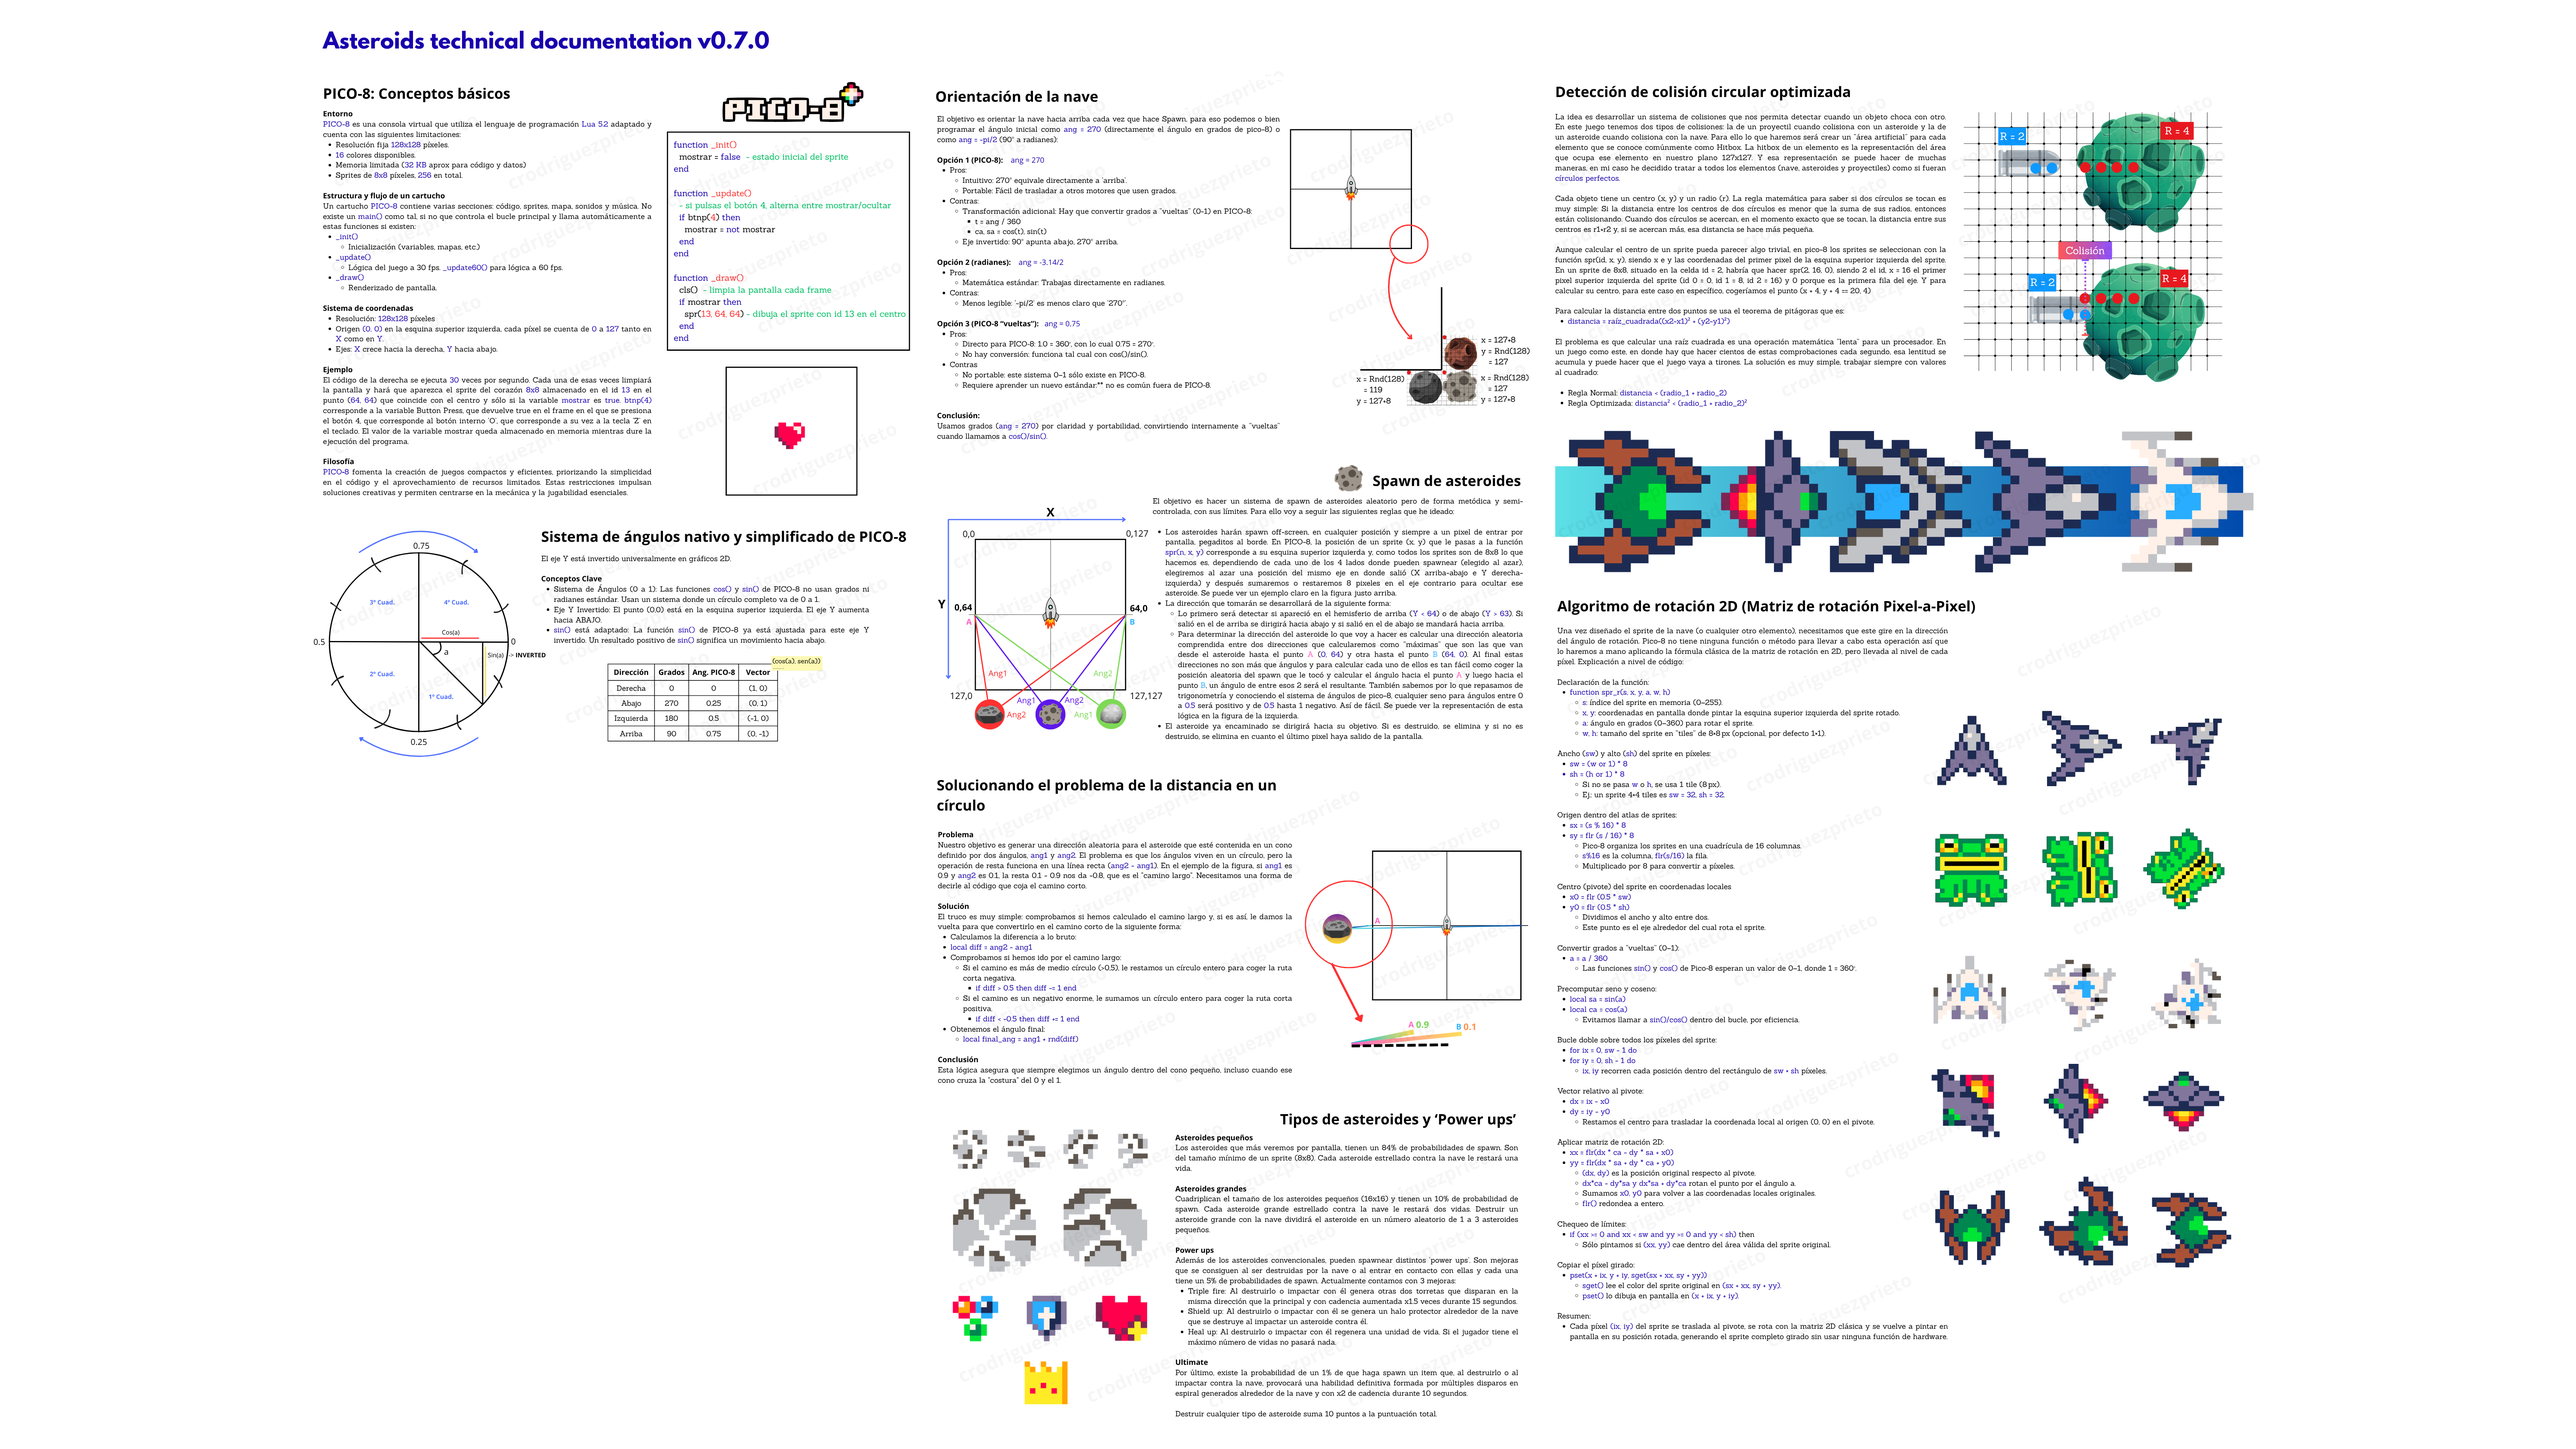
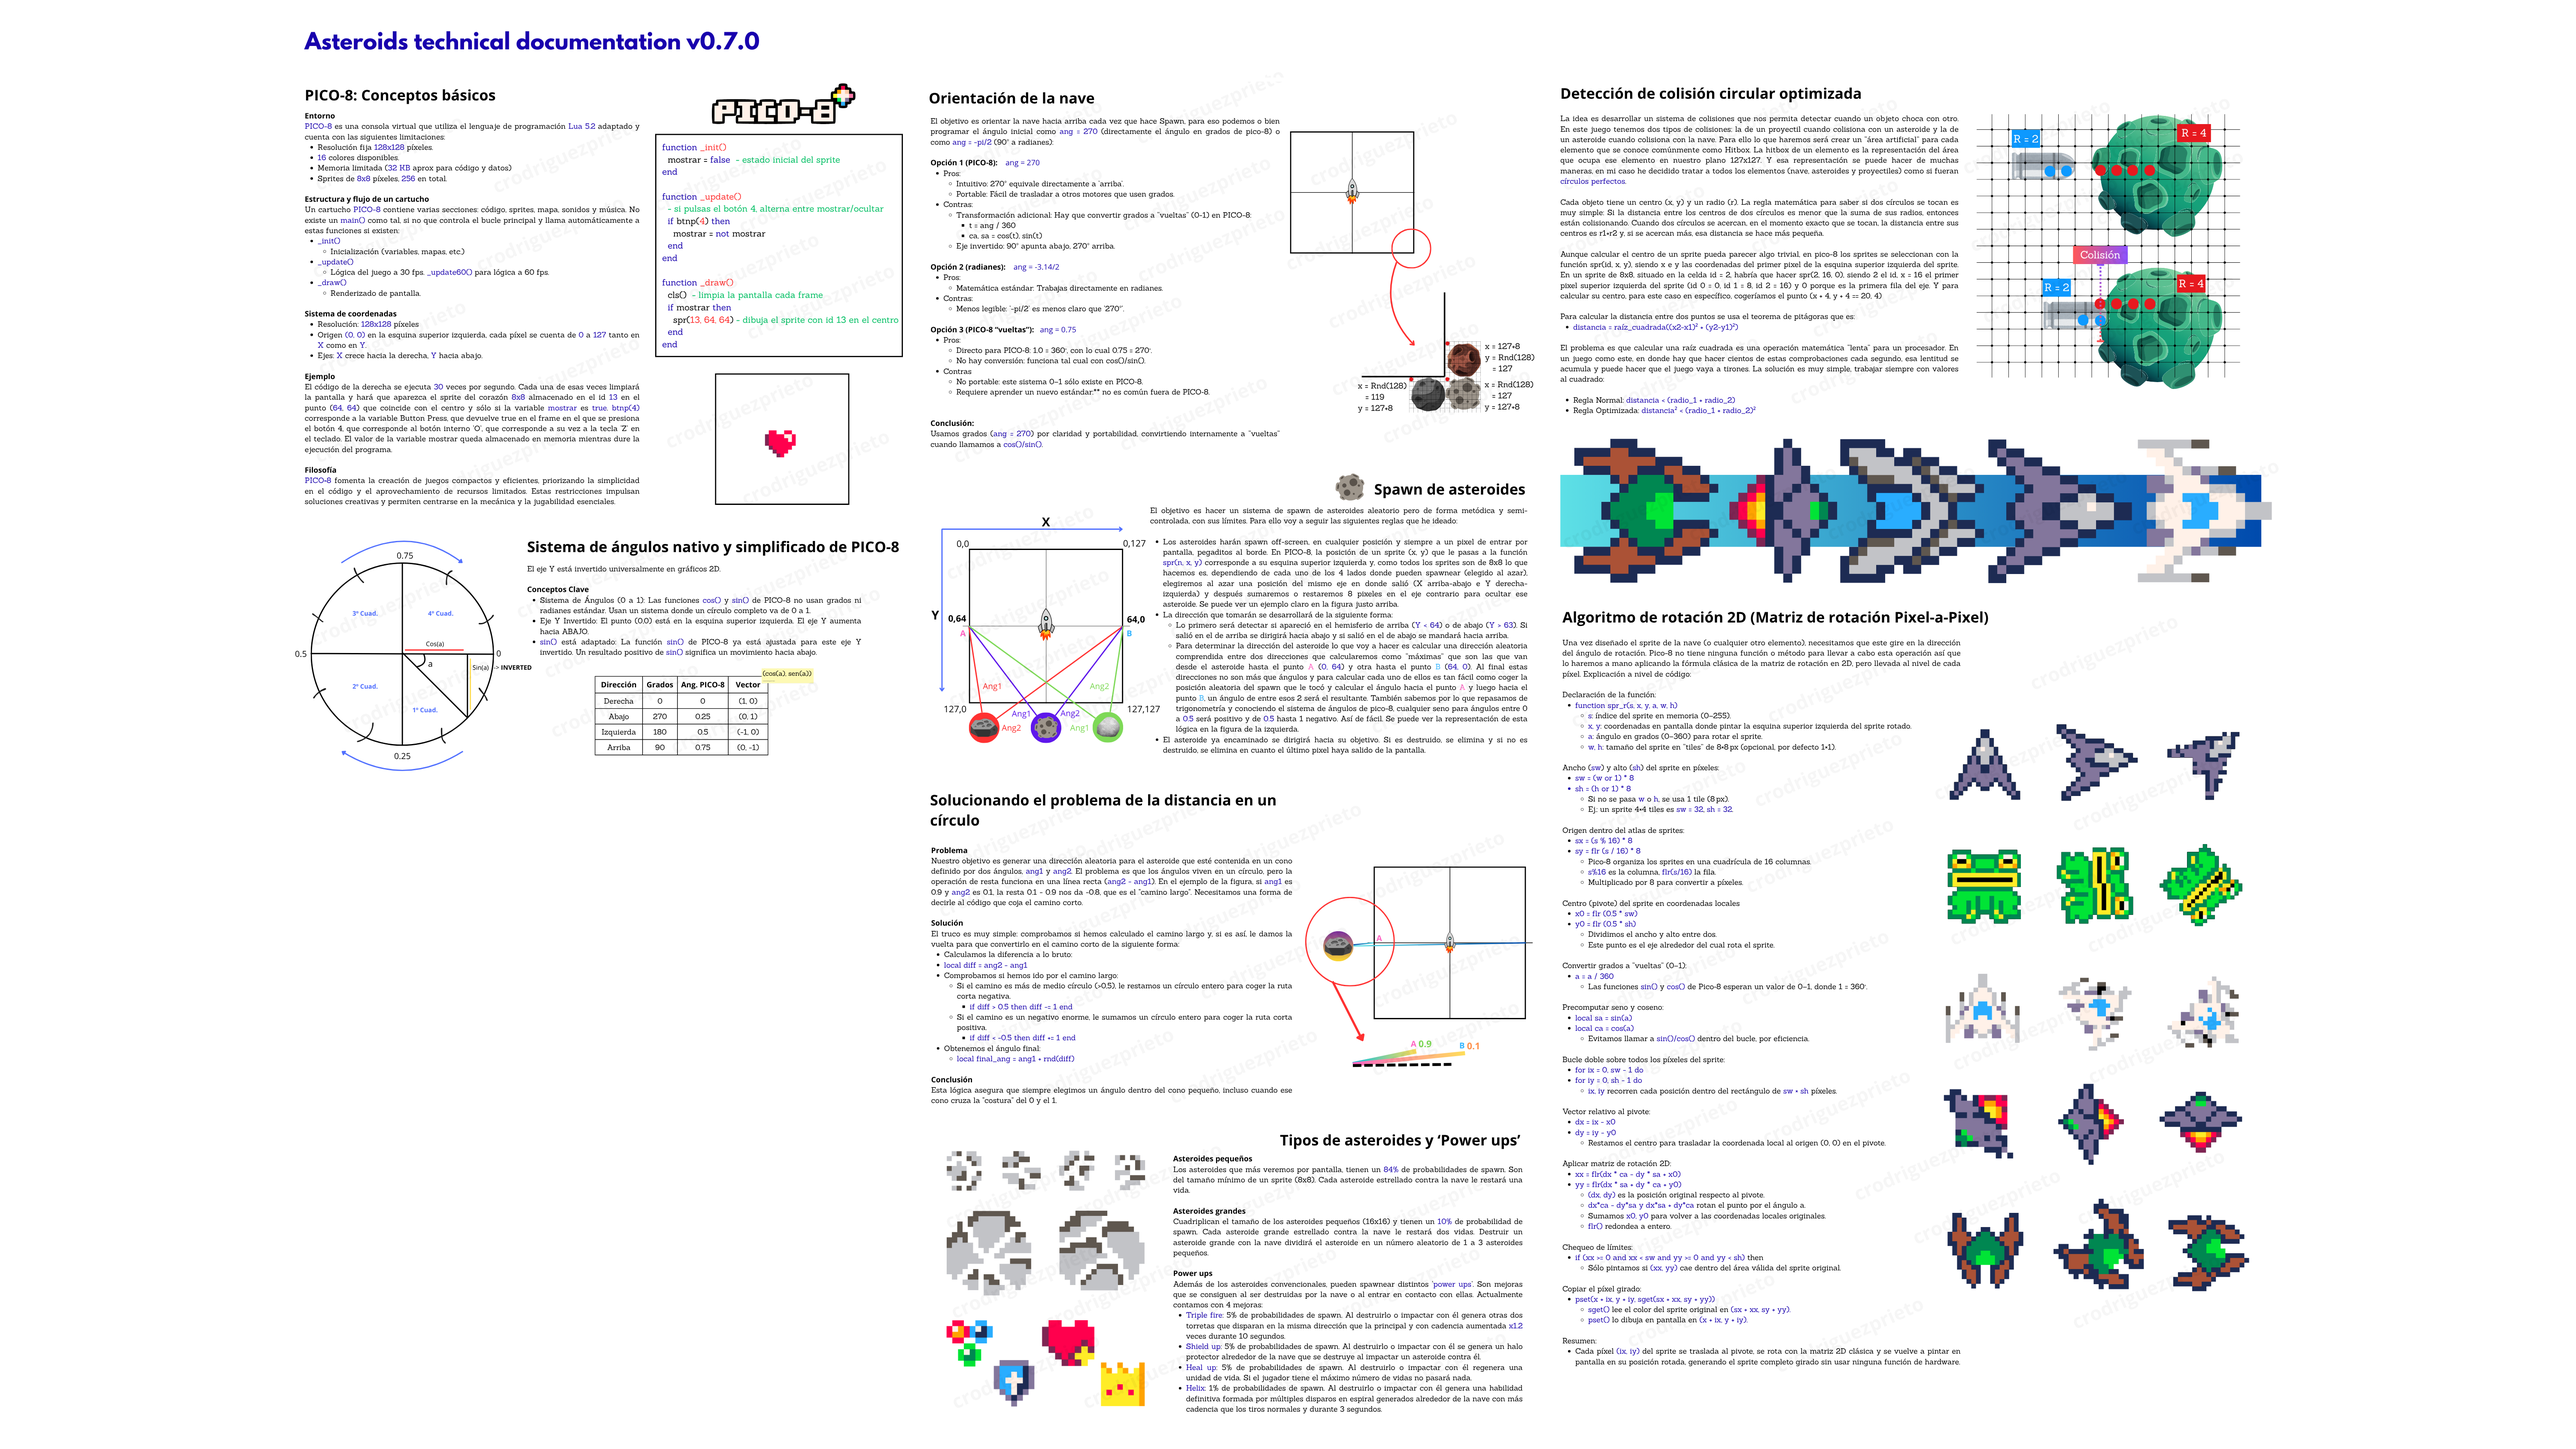
feat: implemented helix powerup

diff --git a/CHANGELOG.md b/CHANGELOG.md
@@ -9,10 +9,11 @@ and this project adheres to [Semantic Versioning](https://semver.org/spec/v2.0.0
 
 ### Added
 - **Bigger rocks:** New 16x16 rock type added (10% spawn rate). It has the ability to split itself in 2 8x8 pieces when destroyed.
-- **Triple fire rate rocks:** New 8x8 rock type added (5% spawn rate). When destroyed, player gets triple shot for 10 seconds.
-- **Shield up rocks:** New 8x8 rock type added (5% spawn rate). Protects the player against one rock or big rock, then it dissapears.
-- **Heal up rocks:** New 8x8 heart rock type added (5% spawn rate). When destroyed or collisioned, it gives the player an extra heart if lives < 5.
-- **Ultimate move:** New 8x8 rock type added (1/100 spawn rate). When destroyed, it doubles the player's firerate for 15 seconds.
+- **Triple fire rate:** New 8x8 rock type added (5% spawn rate). When destroyed, player gets triple shot for 10 seconds.
+- **Shield up:** New 8x8 rock type added (5% spawn rate). Protects the player against one rock or big rock, then it dissapears.
+- **Heal up:** New 8x8 heart rock type added (5% spawn rate). When destroyed or collisioned, it gives the player an extra heart if lives < 5.
+- **Helix power up:** New 8x8 rock type added (1/100 spawn rate). When destroyed, it unleashes a spiraling salvo of 8 projectiles that rotate outward in a perfect helix parttern for 3 seconds.
+- **New sprite designs:** New types of bullets, new powerup sprites and 4 new sprites for common asteroids.
 
 ### Changed
 - **Changed file name:** Renamed DESIGN_SPEC to TECHNICAL_DOCUMENTATION.
